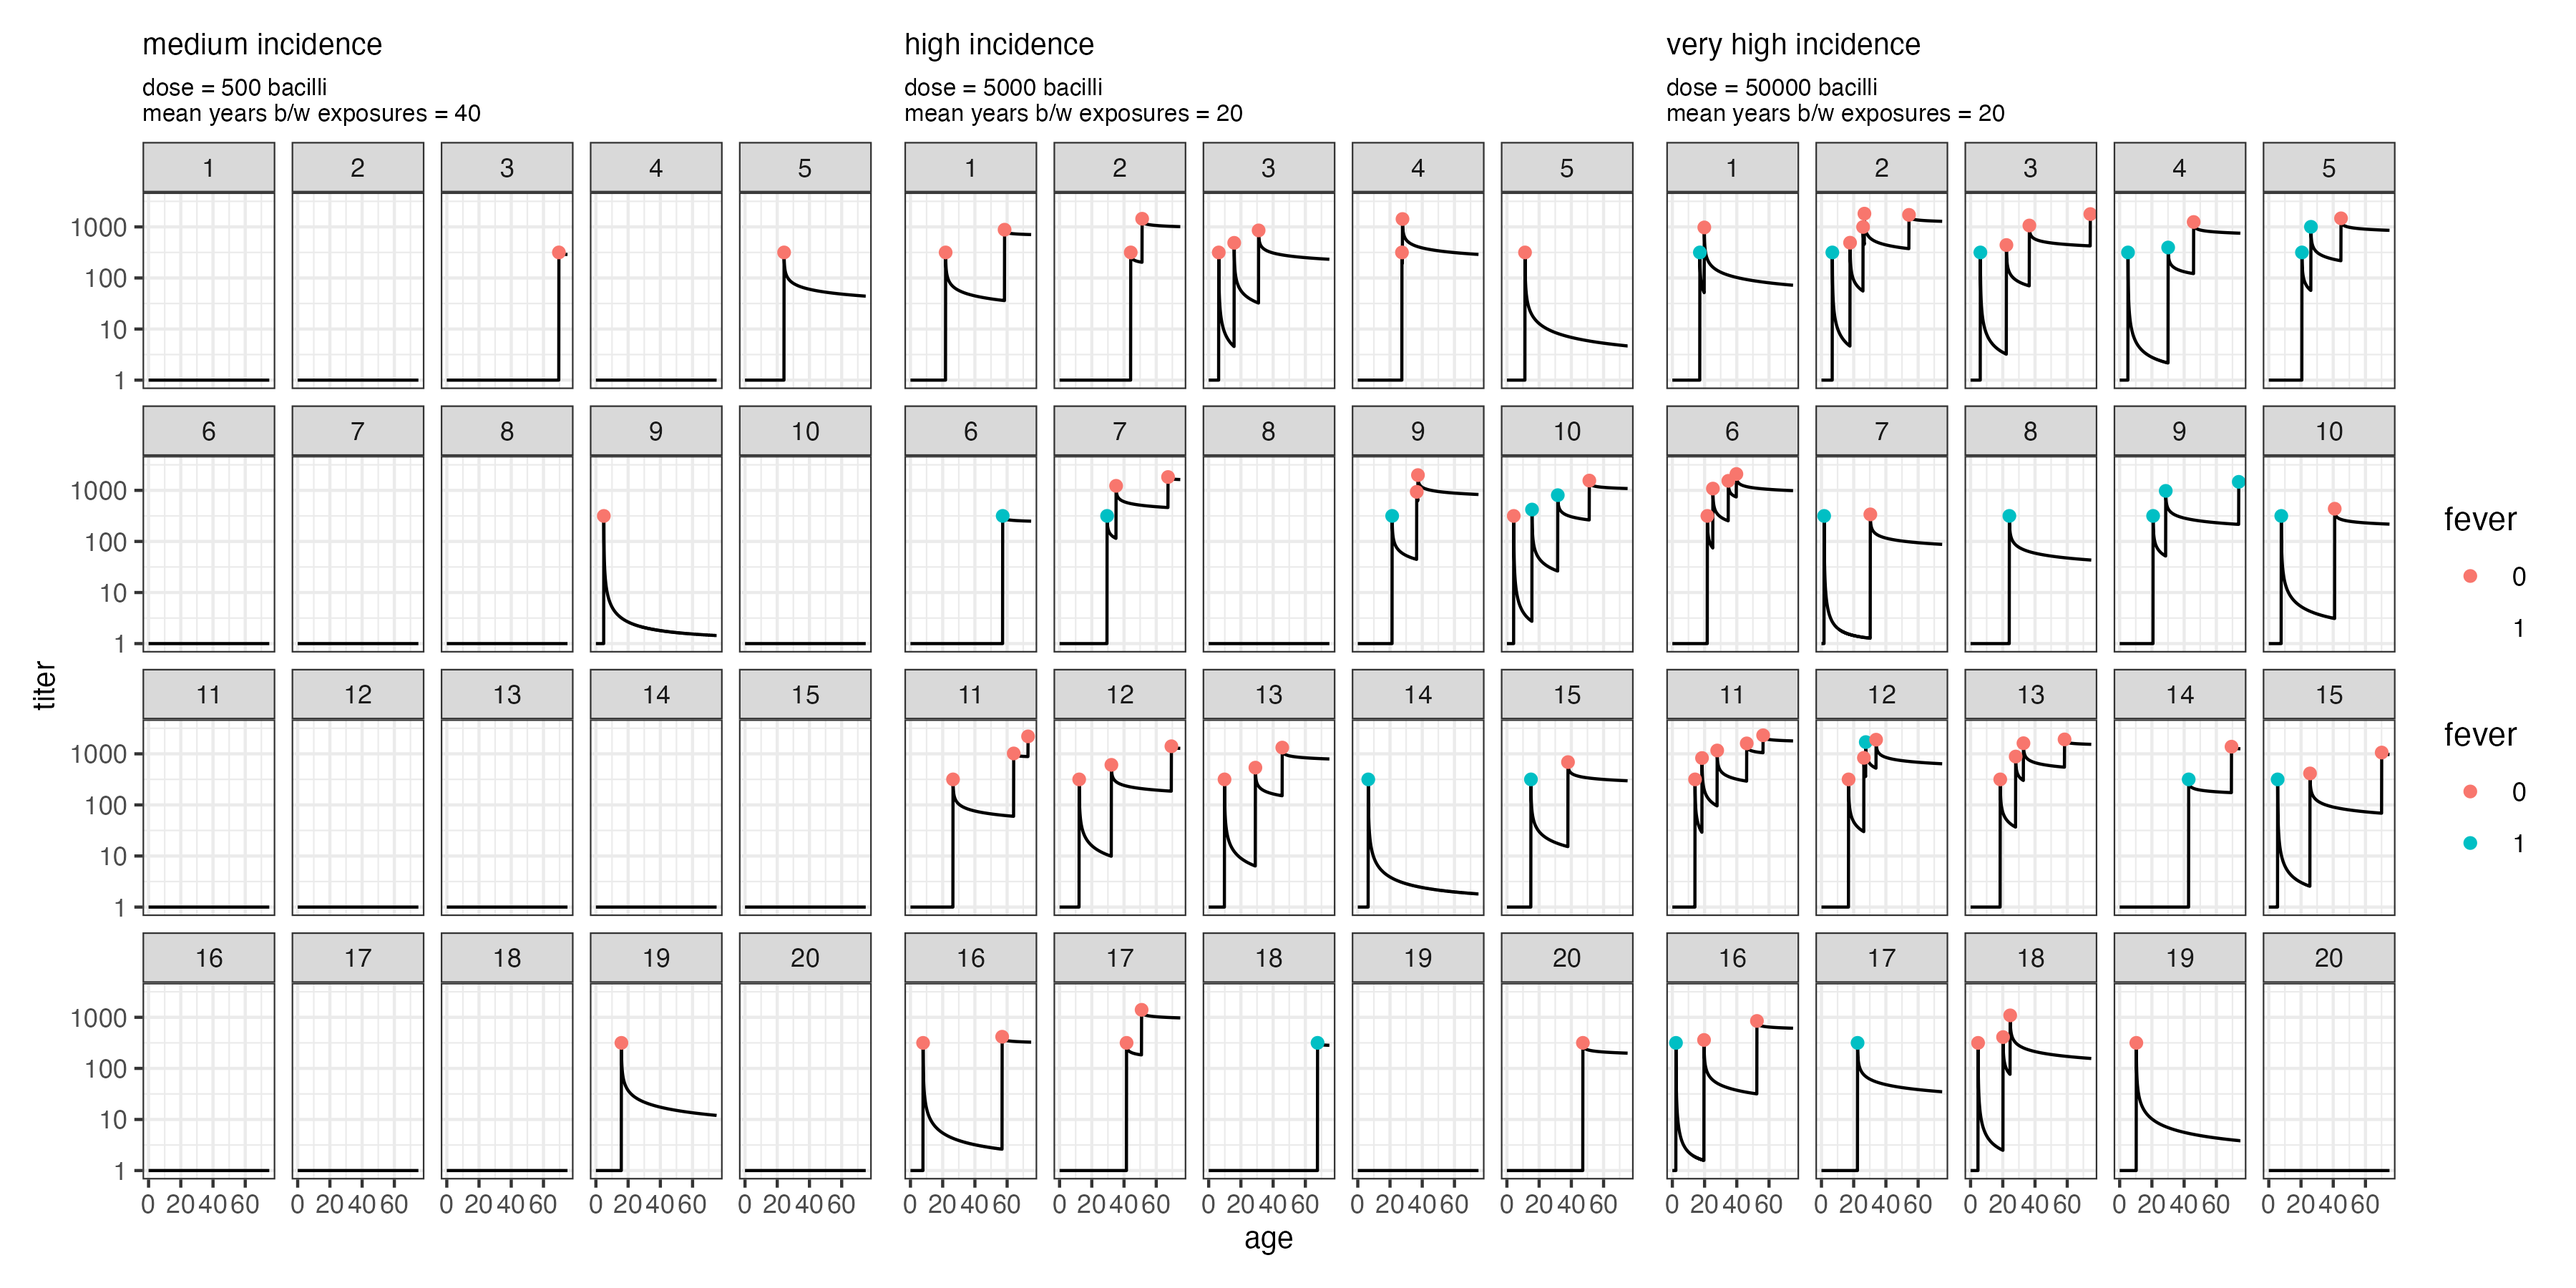
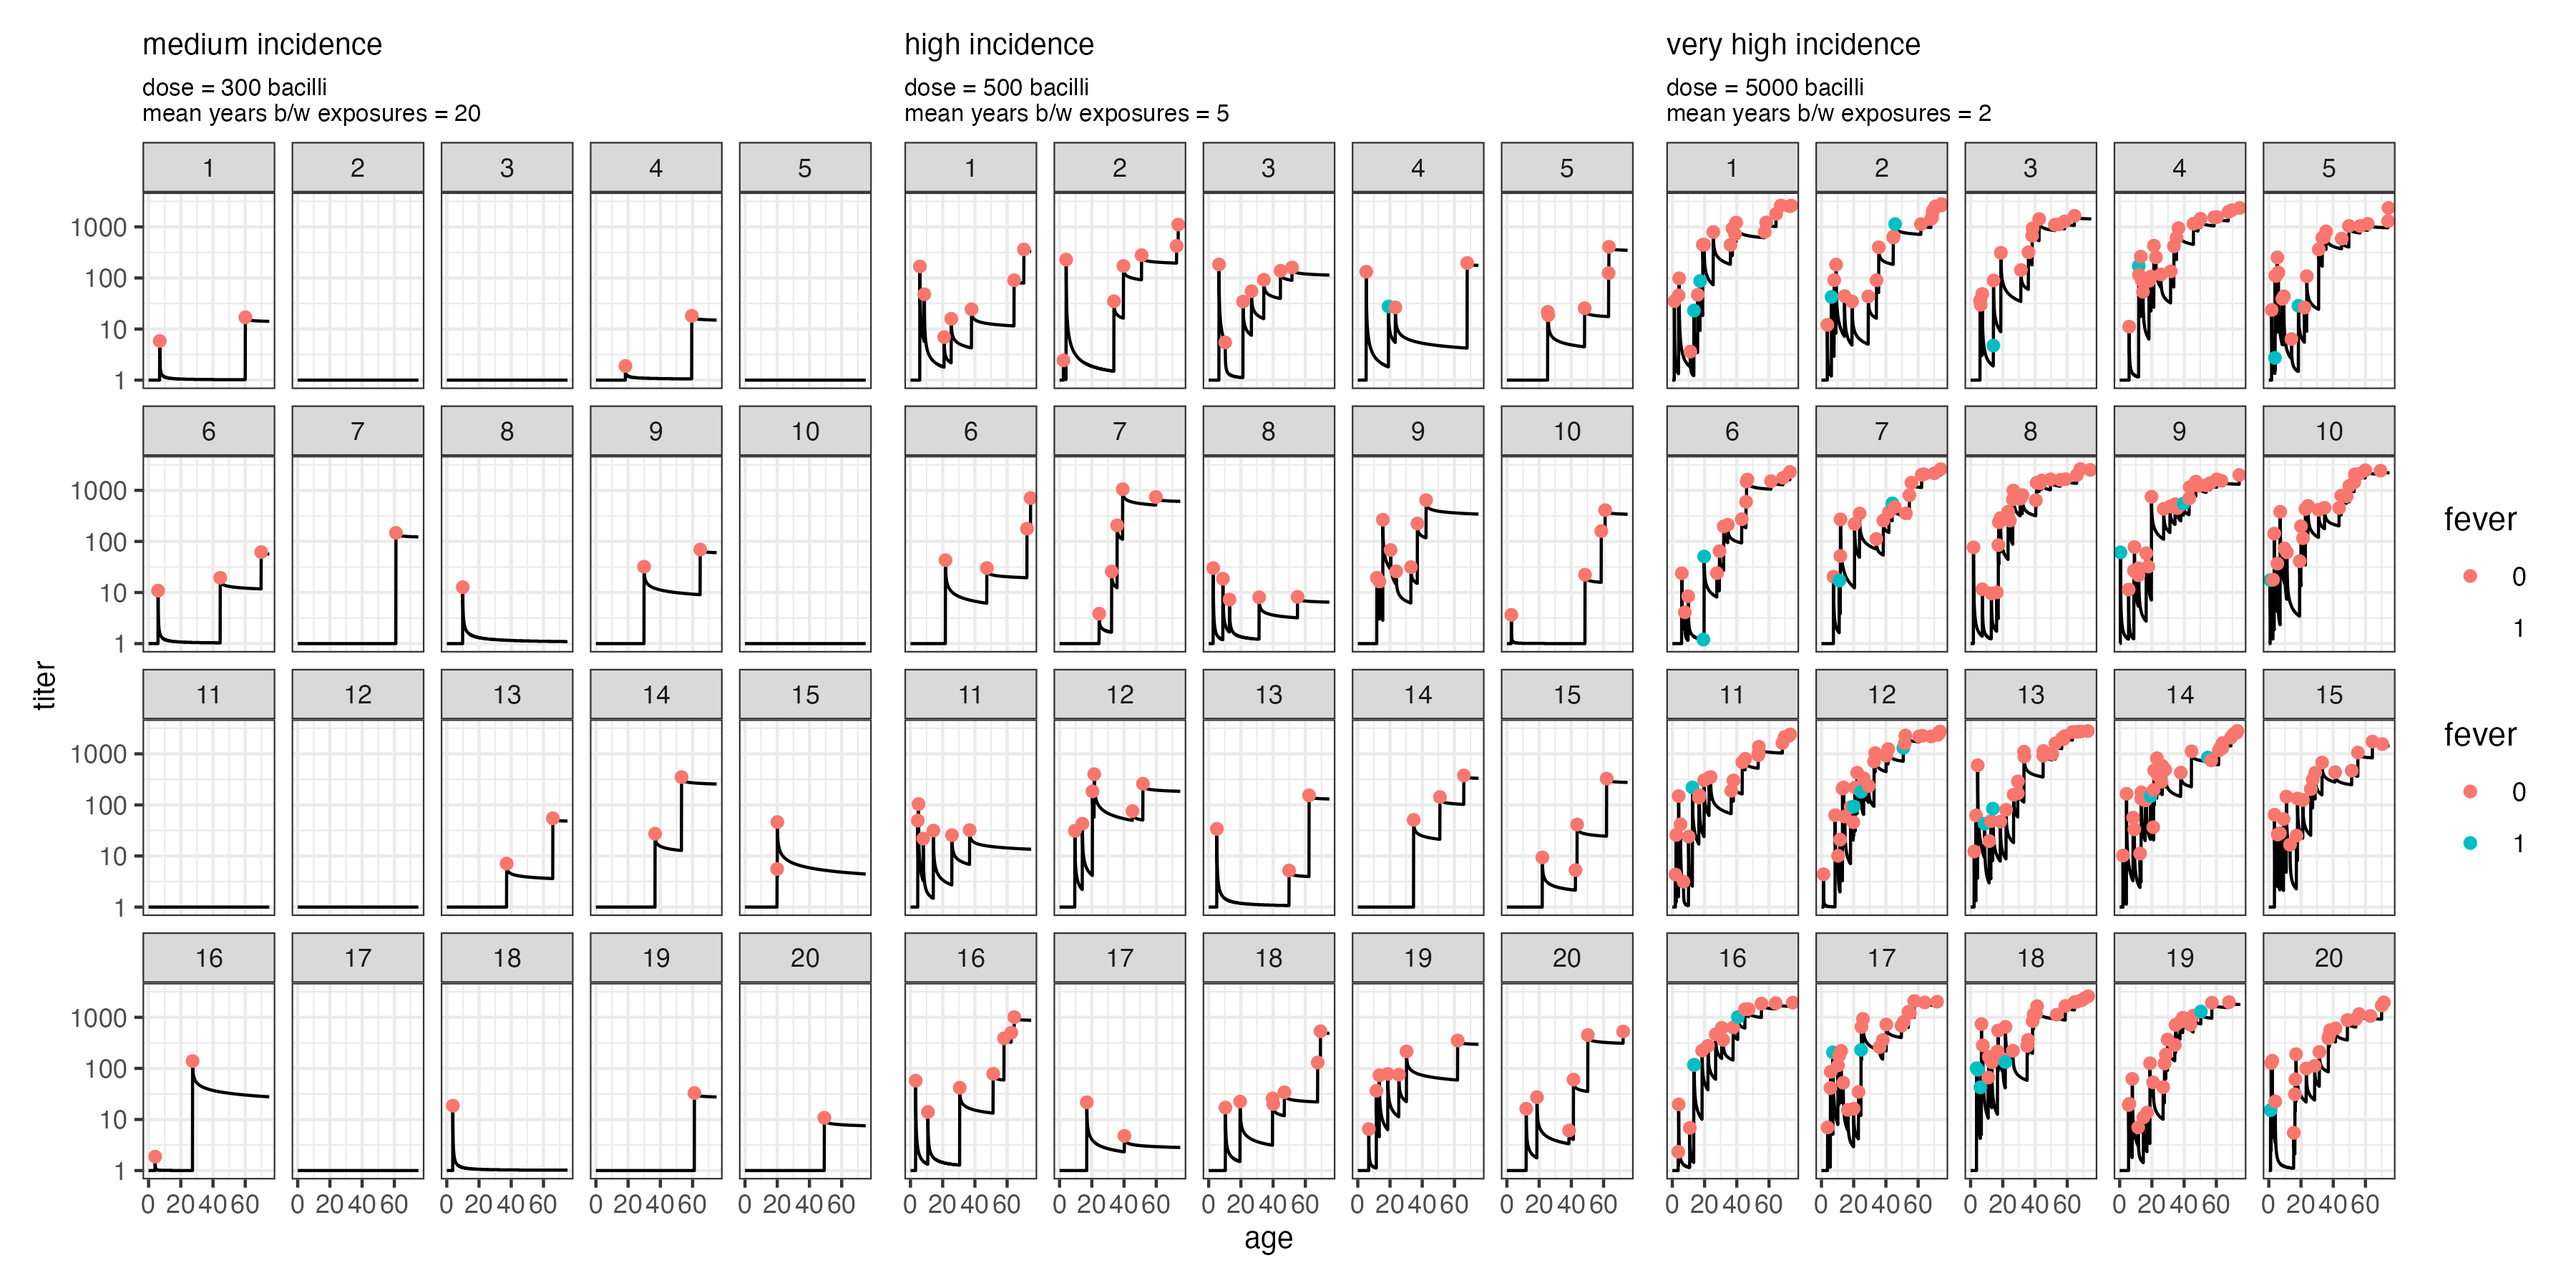
showing to myself that it's possible to fit seroresponse rate and fever rates at ~3% symptomatic
t

assaas

x

diff --git a/docs/blog/posts/cohort_incidence_model_proof_of_concept.md b/docs/blog/posts/cohort_incidence_model_proof_of_concept.md
@@ -140,14 +140,21 @@ another day.
 
     # fold-rise model. defaults set to natural immunity defaults
     fold_rise_model = function(CoP_pre,
-                               mu_0=2.5,
-                               CoP_max=10^3.5, CoP_min=1){
-      fold_rise = 10^(mu_0*(1-(log10(CoP_pre)-log10(CoP_min))/(log10(CoP_max)-log10(CoP_min))))
+                               mu_0=1.25,
+                               CoP_max=10^3.5, CoP_min=1,
+                               sigma_0=0.5, # made up value for now, informed by polio (2.9/7.2)*mu_0
+                               response='individual'){# 'median'
+      if(response == 'median'){
+        mu = mu_0
+      } else if (response=='individual'){
+        mu = pmax(0,rnorm(length(CoP_pre),mean=mu_0,sd=sigma_0))
+      }
+      fold_rise = 10^(mu*(1-(log10(CoP_pre)-log10(CoP_min))/(log10(CoP_max)-log10(CoP_min))))
       return(fold_rise)
     }
 
     pl_df=expand.grid(CoP_pre=10^seq(0,3.5,by=0.1)) |> 
-      mutate(fold_rise = fold_rise_model(CoP_pre=CoP_pre)) |>
+      mutate(fold_rise = fold_rise_model(CoP_pre=CoP_pre, response='median')) |>
       mutate(CoP_post = fold_rise * CoP_pre) 
     (ggplot(pl_df) +
       geom_line(aes(x=CoP_pre,y=fold_rise)) +
@@ -198,7 +205,7 @@ another day.
     p_outcome_given_dose = function(dose=1e4,  CoP_pre=1, outcome = 'fever_given_dose', 
                                     n50_fever_given_dose=27800, alpha_fever_given_dose=0.84, 
                                     gamma_fever_given_dose=0.4,
-                                    n50_infection_given_dose=27800/10,alpha_infection_given_dose = 0.84*2, 
+                                    n50_infection_given_dose=27800/40,alpha_infection_given_dose = 0.84*2, 
                                     gamma_infection_given_dose=0.4/2 
                                     ){
       
@@ -464,27 +471,27 @@ differ in overall incidence (100/100k &lt; “high” &lt; 1000/100k
 vs. $1000/100k &lt; “very high”).
 
     # if the simulation output is saved, just use the cache. Otherwise, run the models.
-    if (!file.exists('scratch/output_cache.RData')){
+    if (TRUE | !file.exists('scratch/output_cache.RData')){
       output=list()
       
       # define setting ecology: exposure rate and dose
 
-        # N_cohort=2e4 # a lot faster for playing
-        N_cohort=1e6 # made huge to get good stats at lower incidence
+        N_cohort=2e4 # a lot faster for playing
+        # N_cohort=1e6 # made huge to get good stats at lower incidence
       
         # medium
-        output[['medium']] = cohort_model(exposure_dose = 5e2,
-                                          exposure_rate=1/(12*40), # per month
+        output[['medium']] = cohort_model(exposure_dose = 3e2,
+                                          exposure_rate=1/(12*20), # per month
                                           N=N_cohort)
         
         # high
-        output[['high']] = cohort_model(exposure_dose = 5e3,
-                                        exposure_rate=1/(12*20), # per month
+        output[['high']] = cohort_model(exposure_dose = 5e2,
+                                        exposure_rate=1/(12*5), # per month
                                         N=N_cohort/5)
         
         # very high
-        output[['very_high']] = cohort_model(exposure_dose = 5e4,
-                                             exposure_rate=1/(12*20), # per month
+        output[['very_high']] = cohort_model(exposure_dose = 5e3,
+                                             exposure_rate=1/(12*2), # per month
                                              N=N_cohort/10)
         
         save(output,N,file='scratch/output_cache.RData')
@@ -512,6 +519,7 @@ incidence archetype targets for reference.
                   age_width = unique(age_width)) |>
         mutate(incidence_fever_overall = sum(incidence_fever*age_width/sum(age_width)),
                incidence_infection_overall = sum(incidence_infection*age_width/sum(age_width)),
+               symptomatic_fraction_overall = sum(symptomatic_fraction*age_width/sum(age_width)),
                incidence_fever_target = incidence_fever_targets[names(output)[k]])
     }
 
@@ -557,10 +565,11 @@ model diagnostics in action.
       
       p_symptomatic_fraction[[k]]=ggplot(output[[k]]$incidence_vs_age) +
         geom_bar(aes(x=age_group,y=symptomatic_fraction),stat='identity') +
+        geom_hline(aes(yintercept=symptomatic_fraction_overall[1]),linetype='solid') +
         theme_bw() +
         xlab('') +
         ylab('symptomatic fraction') +
-        ylim(c(0,1)) +
+        # ylim(c(0,1)) +
         labs(title = paste(sub('_',' ',names(output)[k]),' incidence',sep=''),
              subtitle=paste('dose = ',output[[k]]$config$exposure_dose,' bacilli\nmean years b/w exposures = ',
                             1/(12*output[[k]]$config$exposure_rate),sep='')) +
@@ -689,6 +698,7 @@ function of the exposure dose and the titer.
       tmp_titer_summary =output[[k]]$titer_df |>
         mutate(protective_efficacy_infection = protective_efficacy(dose = exposure_dose,CoP_pre = titer, outcome='infection_given_dose')) |>
         mutate(protective_efficacy_fever = protective_efficacy(dose = exposure_dose,CoP_pre = titer, outcome='fever_given_dose')) |>
+        mutate(seropositive_VaccZyme = 10^(log10(titer)*(1 + 0.37*rnorm(length(titer))))>7) |>
         group_by(age_years) |>
         summarize(titer_gmt = exp(mean(log(titer))),
                titer_median = median(titer),
@@ -696,7 +706,7 @@ function of the exposure dose and the titer.
                titer_lower_iqr = quantile(titer,probs=0.25),
                titer_upper_95 = quantile(titer,probs=0.975),
                titer_lower_95 = quantile(titer,probs=0.025),
-               fraction_seropositive_VaccZyme = mean(titer>7),
+               fraction_seropositive_VaccZyme = mean(seropositive_VaccZyme),
                protective_efficacy_infection_median = median(protective_efficacy_infection),
                protective_efficacy_infection_upper_iqr = quantile(protective_efficacy_infection,probs=0.75),
                protective_efficacy_infection_lower_iqr = quantile(protective_efficacy_infection,probs=0.25),
